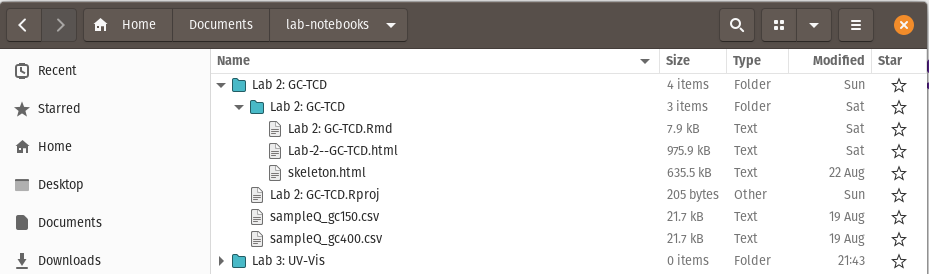
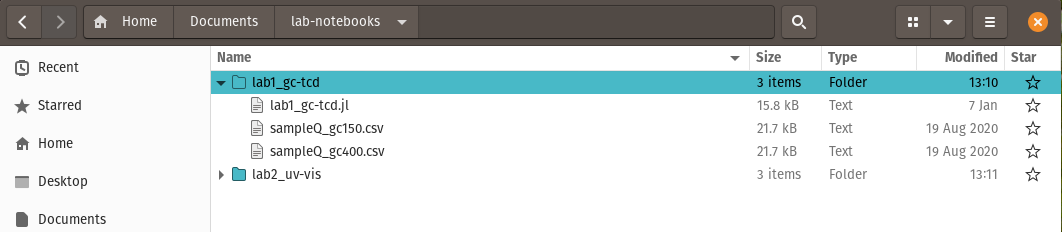
lab 0 slides

diff --git a/docs/prelab-slides/L0-Keeping-a-Lab-Notebook.html b/docs/prelab-slides/L0-Keeping-a-Lab-Notebook.html
@@ -15,7 +15,6 @@ layout: true
 .footer[
 - <div class="tooltip"><a href="/"><i class="fas fa-home"></i></a> <span class="tooltiptext">Go to C370 Main Page</span></div>
 - <div class="tooltip"><a href="/slides"><i class="fas fa-chalkboard-teacher"></i></a><span class="tooltiptext">Go to Lecture List</span></div>
-- [<div class="tooltip"><i class="fas fa-list"></i><span class="tooltiptext">Go to Table of Contents</span></div>](#contents)
 - <div class="tooltip"><i class="fas fa-question"></i><span class="tooltiptext">Press <kbd>Shift</Kbd> + <kbd>?</kbd> for Navigation Tips!</span></div>
 ]
 
@@ -28,10 +27,10 @@ layout: true
   Keeping a Lab Notebook for Reproducible Research
 </h1>
 
-<img src="https://upload.wikimedia.org/wikipedia/commons/d/d0/RStudio_logo_flat.svg" style = "height: 100px; margin-left: auto; margin-right: auto; display: block;">
+<img src="https://upload.wikimedia.org/wikipedia/commons/1/1f/Julia_Programming_Language_Logo.svg" style = "height: 100px; margin-left: auto; margin-right: auto; display: block;">
 
 
-<img src="https://upload.wikimedia.org/wikipedia/commons/4/48/Markdown-mark.svg" style = "height: 100px; margin-left: auto; margin-right: auto; display: block;">
+<img src="https://raw.githubusercontent.com/fonsp/Pluto.jl/master/frontend/img/logo.svg" style = "height: 100px; margin-left: auto; margin-right: auto; display: block;">
 
 **Dr. Al Fischer**   |  Western Carolina University
 
@@ -45,7 +44,7 @@ layout: true
 
 - See [my lab notebook guidelines](https://alphonse.github.io/chem370/lab-manual/appendix-3-lab-notebook-guidelines.html) for specific requirements and examples.
 
-- Templates are available directly in RStudio through the `instRumental` package.
+- Templates are available on the course website and may be loaded directly into Julia via the links provided.
 
 - Follow the *specific* instructions in each template for the assessment.
 
@@ -54,17 +53,16 @@ layout: true
 
 # lab notebooks | **organizing files**
 
-- Organize your labs using R projects.
-- Use the following directory structure to organize your labs (mostly automatic in R projects) 
+- Organize your labs!
+- Use the following directory structure to organize your labs: 
 
 ```
-    > lab-notebooks/[lab N: lab-name]
-        |------> /[lab N: lab name] (this folder contains your notebook)
-        |      |------> /lab N: lab-name.Rmd (this is your lab notebook file)
+    > lab-notebooks/[labN_lab-name]
+        |------> /labN_lab-name.jl (this is your lab notebook file)
         |------> /datafile.csv (this is your data file - there may be several)
 ```
           
-<img src="/assets/images/lab-0-notebooks/notebooks-files.png" style = "height: 200px; margin-left: auto; margin-right: auto; display: block;">
+<img src="/assets/images/lab-0/notebooks-files.png">
 
 ---
 class: center
@@ -82,7 +80,7 @@ class: center
 
 Lab notebooks are graded for thoroughness and overall quality according to the [rubrics](https://alphonse.github.io/chem370/lab-manual/gctcd-rubric.html) at the end of each lab.
 
-<img src="/assets/images/lab-0-notebooks/notebooks-rubric.png" style = "height: 400px; margin-left: auto; margin-right: auto; display: block;">
+<img src="/assets/images/lab-0/notebooks-rubric.png" style = "height: 400px; margin-left: auto; margin-right: auto; display: block;">
 
 ---
 class: center
@@ -93,19 +91,25 @@ Lab notebooks are graded for accuracy using the [assessments](https://alphonse.g
 
 *You must turn in your data and answer* ***exactly*** *as specified!*
 
-<img src="/assets/images/lab-0-notebooks/notebooks-assessment.png" style = "height: 300px; margin-left: auto; margin-right: auto; display: block;">
+<img src="/assets/images/lab-0/notebooks-assessment.png" style = "height: 300px; margin-left: auto; margin-right: auto; display: block;">
 
 ---
 
 # lab notebooks | **turning in work**
 
-- Work will be turned in [electronically](https://alphonse.github.io/chem370/submissions.html).
+- Work will be turned in electronically on MS Teams
+- Upload your .jl and .html files as attachments to each assignment
+
+<img src="/assets/images/lab-0/notebooks-turn-in.png" style = "height: 225px; margin-left: auto; margin-right: auto; display: block;">
+
+<!-- - Work will be turned in [electronically](https://alphonse.github.io/chem370/submissions.html).
 - Turn in a ZIP file containing all requested items. 
     - Place all items in the same folder (e.g. the [lab name] folder), right click, choose “Compress”
 
-<img src="/assets/images/lab-0-notebooks/notebooks-compress.png" style = "height: 225px; margin-left: auto; margin-right: auto; display: block;">
+<img src="/assets/images/lab-0/notebooks-compress.png" style = "height: 225px; margin-left: auto; margin-right: auto; display: block;"> -->
 
 ---
+exclude: true
 
 # lab notebooks | **turning in work**
 
